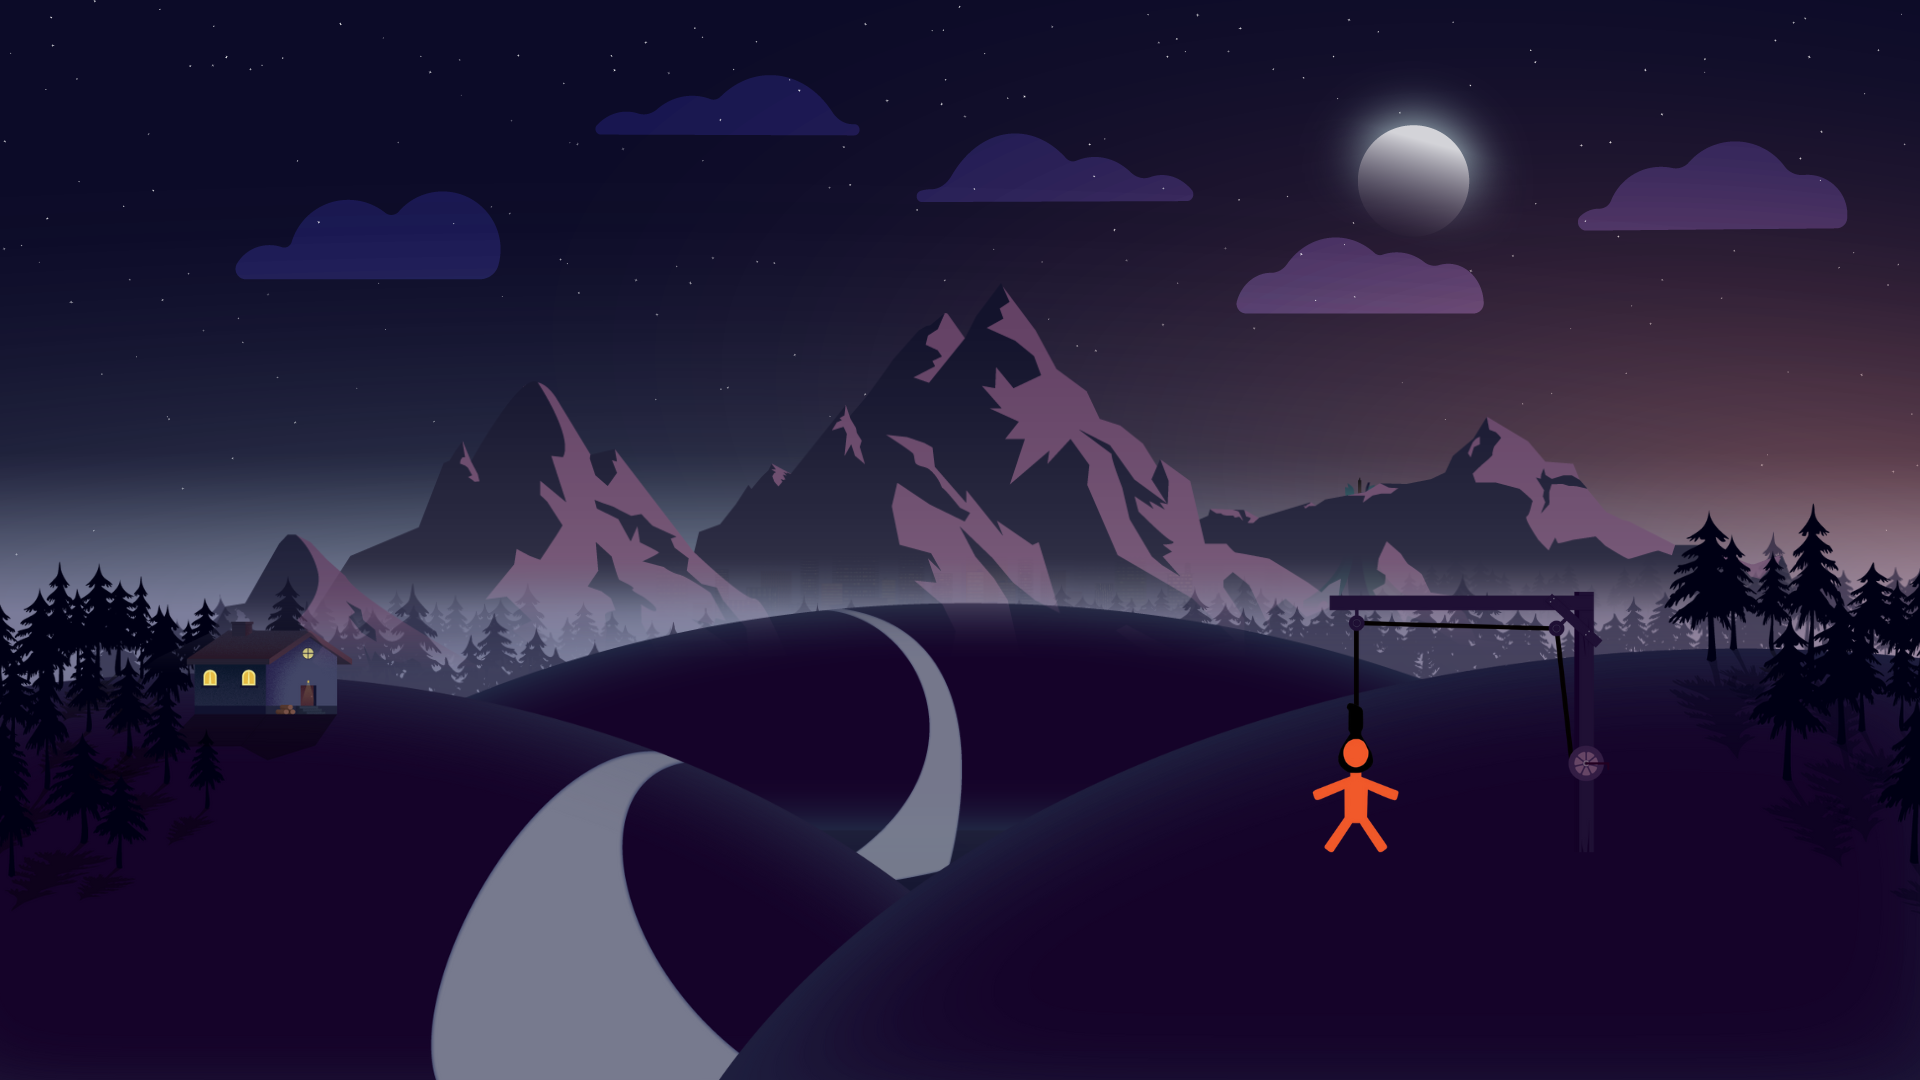
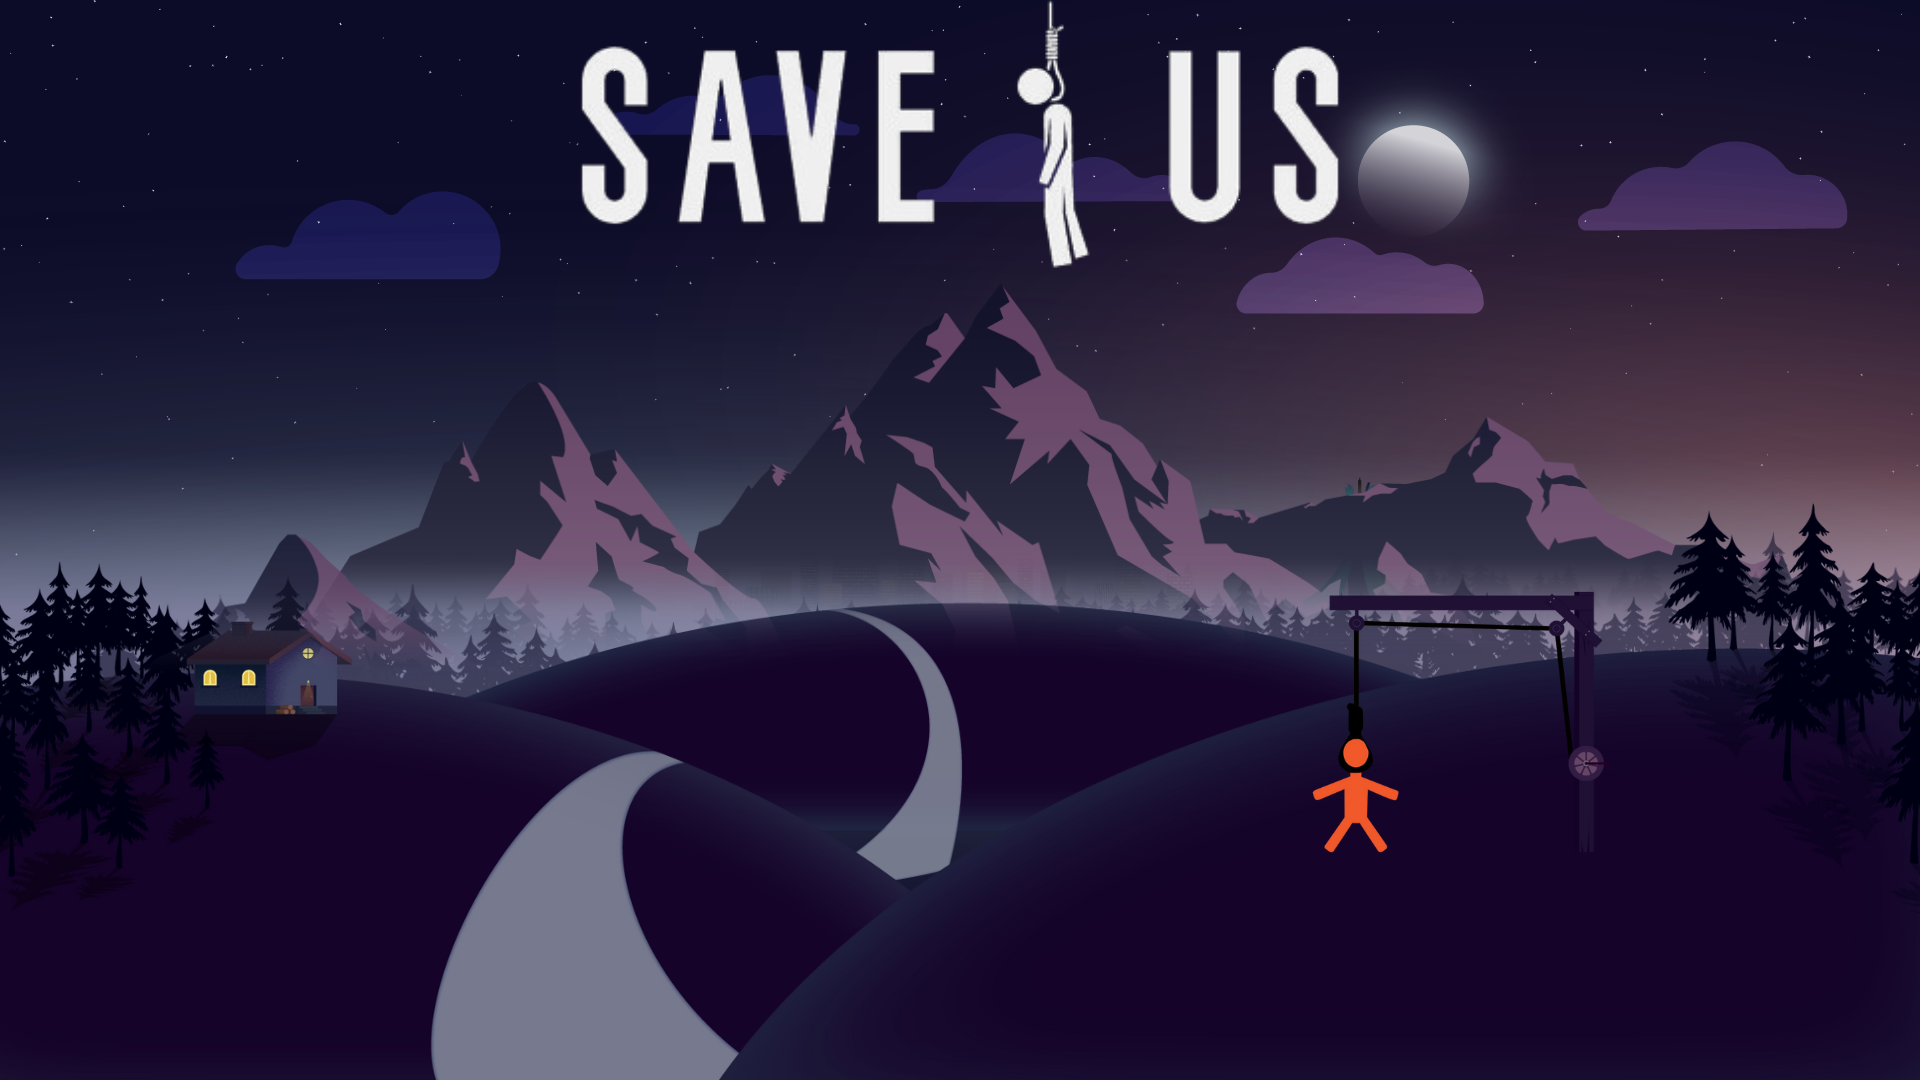
fix gameover bug + re-design main menu

Changed region(s): [[0.2812, 0.0306, 0.5, 0.2139], [0.5938, 0.0306, 0.7188, 0.2139], [0.5312, 0.0, 0.5625, 0.2444]]

diff --git a/Frames/main_menu/main.py b/Frames/main_menu/main.py
@@ -4,13 +4,67 @@ from animation import Animation
 class MainMenu(CTkFrame):
     def __init__(self, parent: object, width: int, height: int, start_game_callback):
         super().__init__(master=parent, width=width, height=height)
-        self.parent = parent
-        self.width = width
-        self.height = height
 
-        default = Animation(self, "./assets/Animation_Open App", self.width, self.height)
+        default = Animation(self, "./assets/Animation_Open App", width, height)
         default.pack()
         
-        self.btn = CTkButton(self, text="Start Game", font=("", -30, "bold"), corner_radius=0, command=start_game_callback)
-        self.btn.place(relx=0.5, rely=0.5, anchor="center")
+        self.after(1000, lambda: self.place_button())
+        
+        self.btn_play = CTkButton(self, text="Start Game", 
+                             font=("", -18, "bold"),
+                             corner_radius=0,
+                             border_width=0,
+                             width=200,
+                             height=40,
+                             fg_color="#E6D439",
+                             text_color="#110320",
+                             command=start_game_callback)
+        self.btn_play.bind("<Enter>", lambda e : self.on_hover(e, self.btn_play))
+        self.btn_play.bind("<Leave>", lambda e: self.off_hover(e, self.btn_play))
+        parent.bind('<Return>', lambda e: start_game_callback())
 
+        self.btn_score = CTkButton(self, text="Leaderboards", 
+                             font=("", -18, "bold"),
+                             corner_radius=0,
+                             border_width=0,
+                             width=200,
+                             height=40,
+                             fg_color="#E6D439",
+                             text_color="#110320")
+        self.btn_score.bind("<Enter>", lambda e : self.on_hover(e, self.btn_score))
+        self.btn_score.bind("<Leave>", lambda e: self.off_hover(e, self.btn_score))
+        
+        self.btn_quit = CTkButton(self, text="Quit", 
+                             font=("", -18, "bold"),
+                             corner_radius=0,
+                             border_width=0,
+                             width=200,
+                             height=40,
+                             fg_color="#E6D439",
+                             text_color="#110320",
+                             command=lambda: exit())
+        self.btn_quit.bind("<Enter>", lambda e : self.on_hover(e, self.btn_quit))
+        self.btn_quit.bind("<Leave>", lambda e: self.off_hover(e, self.btn_quit))
+        parent.bind('<Escape>', lambda e: exit())
+        
+    
+    def place_button(self):
+        self.btn_play.place(relx=0.5, rely=0.5, anchor="center")
+        self.btn_score.place(relx=0.5, rely=0.58, anchor="center")
+        self.btn_quit.place(relx=0.5, rely=0.66, anchor="center")
+        
+    def on_hover(self, event, btn):
+        btn.configure(width=215,
+                      height=48,
+                      text_color="white",
+                      fg_color="#520ca1",
+                      font=("", -19, "bold"))
+        
+        
+    def off_hover(self, event, btn):
+        btn.configure(width=200,
+                      height=40,
+                      text_color="#110320",
+                      fg_color="#E6D439",
+                      font=("", -18, "bold"))
+        

diff --git a/Frames/game/characters/default.py b/Frames/game/characters/default.py
@@ -3,37 +3,7 @@ from Frames.game.components.player_state import Player
 from Frames.game.components.keyboard import Keyboard
 from Frames.game.components.guess import Guess
 from Frames.game.components.time_frame import Time
-
-
-class SlideFrame(CTkFrame):
-    def __init__(self, parent, start_pos, end_pos, width):
-        super().__init__(master=parent, width=width, height=1000, corner_radius=0, border_width=5)
-        
-        self.start_pos = start_pos
-        self.end_pos = end_pos
-        self.pos = self.start_pos
-        self.anchor = "n" if self.start_pos == 1 else "s"
-
-        self.place(relx=0.05, rely=self.start_pos, anchor=self.anchor)
-        self.pack_propagate(False)
-        
-        if self.anchor == "n":
-            self.animate_upwards()
-        else:
-            self.animate_downwards()
-
-    def animate_upwards(self):
-        if self.pos > self.end_pos:
-            self.pos -= 0.013
-            self.place(relx=0.5, rely=self.pos, anchor=self.anchor)
-            self.after(10, self.animate_upwards)
-
-    def animate_downwards(self):
-        if self.pos < self.end_pos:
-            self.pos += 0.004
-            self.place(relx=0.5, rely=self.pos, anchor=self.anchor)
-            self.after(20, self.animate_downwards)
-            
+from Frames.game.components.slide_frame import slide_frame  
 
 class default_character(CTkFrame):
     def __init__(self, parent: object, width: int, height: int, path_game_over:str, path_wrong_answer: str, character: str):
@@ -45,7 +15,8 @@ class default_character(CTkFrame):
         player_state = Player(parent_div, path_game_over, path_wrong_answer, width, height, self)
         player_state.pack()
       
-        frame = SlideFrame(parent_div, 1, 0.64, 1000)
+        frame = slide_frame(parent_div, 1, 0.64, 1000)
+        frame.animate_upwards()
 
         self.guess = Guess(frame, self, character)
         self.guess.pack(pady=20)
@@ -55,6 +26,8 @@ class default_character(CTkFrame):
         
         self.time = Time(parent_div, 0, 0.08, player_state, self.keyboard, character, self)
         
-        frm_lvl = SlideFrame(parent_div, 0, 0.05, 200)
+        frm_lvl = slide_frame(parent_div, 0, 0.05, 200)
+        frm_lvl.animate_downwards()
+        
         self.lbl_lvl = CTkLabel(frm_lvl, text=f"Level: {self.guess.current_level}", font=("courier", -20, "bold"))
         self.lbl_lvl.pack(side="bottom", pady=7)

diff --git a/Frames/choose_character/main.py b/Frames/choose_character/main.py
@@ -1,13 +1,11 @@
 from customtkinter import *
 from PIL import Image
-from Frames.game.characters.default import default_character
+from Frames.game.characters.default import default_character, slide_frame
 from Frames.game.characters.allan import allan_character
 from Frames.game.characters.zyrus import zyrus_character
 from Frames.game.characters.richard import richard_character
 from Frames.game.characters.renzo import renzo_character
 from Frames.game.characters.france import france_character
-
-from Frames.choose_character.info import SlideFrame
 
 class Choices(CTkFrame):
     def __init__(self, parent: object, width:int, height: int):
@@ -36,9 +34,18 @@ class Choices(CTkFrame):
         self.btn_play = CTkButton(self, text="play", command=self.play)
         self.btn_play.place(relx=0.5, rely=0.8, anchor="center")
         
-        # description = SlideFrame(self)
-        # description.frame_description(0)
+        # character_information_frame = slide_frame(self, 1, 0.64, 1000)
+        # character_information_frame.animate_upwards()
         
+        # sub_frm = CTkFrame(character_information_frame, corner_radius=0, bg_color="transparent", border_width=0)
+        # sub_frm.pack_propagate(False)
+        # sub_frm.pack()
+        
+        
+        parent.bind('<Return>', lambda e: self.play())
+        parent.bind('<Left>', lambda e: self.left())
+        parent.bind('<Right>', lambda e: self.right())
+
     def right(self):
         if self.index == len(self.image_paths) - 1:
             self.index = 0

diff --git a/Frames/game/components/slide_frame.py b/Frames/game/components/slide_frame.py
@@ -1,0 +1,25 @@
+from customtkinter import CTkFrame
+
+class slide_frame(CTkFrame):
+    def __init__(self, parent, start_pos, end_pos, width):
+        super().__init__(master=parent, width=width, height=1000, corner_radius=0, border_width=5)
+        
+        self.start_pos = start_pos
+        self.end_pos = end_pos
+        self.pos = self.start_pos
+        self.anchor = "n" if self.start_pos == 1 else "s"
+
+        self.place(relx=0.05, rely=self.start_pos, anchor=self.anchor)
+        self.pack_propagate(False)
+
+    def animate_upwards(self):
+        if self.pos > self.end_pos:
+            self.pos -= 0.013
+            self.place(relx=0.5, rely=self.pos, anchor=self.anchor)
+            self.after(10, self.animate_upwards)
+
+    def animate_downwards(self):
+        if self.pos < self.end_pos:
+            self.pos += 0.013
+            self.place(relx=0.5, rely=self.pos, anchor=self.anchor)
+            self.after(10, self.animate_downwards)

diff --git a/Frames/game/components/player_state.py b/Frames/game/components/player_state.py
@@ -34,6 +34,8 @@ class Player(ctk.CTkLabel):
     def GameOverAnimation(self, i=0):
         if i == 0: 
             self.character_object.time.active = False
+            self.character_object.lbl_skill_1.unbind("<Button-1>")
+            self.character_object.lbl_skill_2.unbind("<Button-1>")
         if i < len(self.images_path_gameover):
             image = ctk.CTkImage(light_image=Image.open(self.images_path_gameover[i]), dark_image=Image.open(self.images_path_gameover[i]), size=(self.width,self.height))
             self.configure(image=image)
